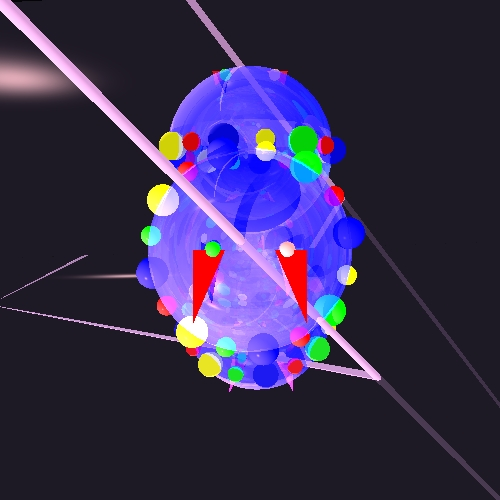
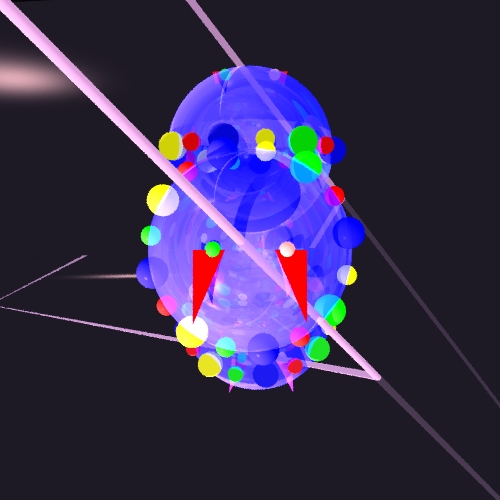
finished jitter superSampling

diff --git a/src/unittests/elements/ReflectionRefractionTests.java b/src/unittests/elements/ReflectionRefractionTests.java
@@ -55,6 +55,31 @@ public class ReflectionRefractionTests {
         render.writeToImage();
     }
 
+    /**
+     * Produce a picture of a sphere lighted by a spot light
+     */
+    @Test
+    public void twoSpheresAdvanaced() {
+        Scene scene = new Scene("Test scene");
+        scene.setCamera(new Camera(new Point3D(0, 0, -1000), new Vector(0, 0, 1), new Vector(0, -1, 0)));
+        scene.setDistance(1000);
+        scene.setBackground(Color.BLACK);
+        scene.setAmbientLight(new AmbientLight(Color.BLACK, 0));
+
+        scene.addGeometries(
+                new Sphere(new Color(java.awt.Color.BLUE), new Material(0.4, 0.3, 100, 0.3, 0), 50,
+                        new Point3D(0, 0, 50)),
+                new Sphere(new Color(java.awt.Color.RED), new Material(0.5, 0.5, 100), 25, new Point3D(0, 0, 50)));
+
+        scene.addLights(new SpotLight(new Color(1000, 600, 0), new Point3D(-100, 100, -500), new Vector(-1, 1, 2), 1,
+                0.0004, 0.0000006));
+
+        ImageWriter imageWriter = new ImageWriter("twoSpheres advanced", 150, 150, 500, 500);
+        Render render = new Render(imageWriter, scene);
+
+        render.renderImageAdvanced();
+        render.writeToImage();
+    }
 
     /**
      * Produce a picture of a sphere lighted by a spot light
@@ -101,6 +126,54 @@ public class ReflectionRefractionTests {
         render.renderImage();
         render.writeToImage();
     }
+
+    /**
+     * Produce an advance picture of a sphere lighted by a spot light
+     */
+    @Test
+    public void twoSpheresOnMirrorsAdvanced() {
+        Scene scene = new Scene("Test scene");
+        scene.setCamera(new Camera(
+                new Point3D(0, 0, -10000),
+                new Vector(0, 0, 1),
+                new Vector(0, -1, 0)));
+        scene.setDistance(10000);
+        scene.setBackground(Color.BLACK);
+        scene.setAmbientLight(new AmbientLight(new Color(255, 255, 255), 0.1));
+
+        scene.addGeometries(
+                new Sphere(
+                        new Color(0, 0, 100),
+                        new Material(0.25, 0.25, 20, 0.5, 0), 400,
+                        new Point3D(-950, 900, 1000)),
+                new Sphere(
+                        new Color(100, 20, 20),
+                        new Material(0.25, 0.25, 20), 200,
+                        new Point3D(-950, 900, 1000)),
+                new Triangle(
+                        new Color(20, 20, 20),
+                        new Material(0, 0, 0, 0, 1),
+                        new Point3D(1500, 1500, 1500),
+                        new Point3D(-1500, -1500, 1500),
+                        new Point3D(670, -670, -3000)),
+                new Triangle(
+                        new Color(20, 20, 20),
+                        new Material(0, 0, 0, 0, 0.5),
+                        new Point3D(1500, 1500, 1500),
+                        new Point3D(-1500, -1500, 1500),
+                        new Point3D(-1500, 1500, 2000)));
+
+        scene.addLights(new SpotLight(new Color(1020, 400, 400), new Point3D(-750, 750, 150),
+                new Vector(-1, 1, 4), 1, 0.00001, 0.000005));
+
+        ImageWriter imageWriter = new ImageWriter("twoSpheresMirroredAdvanced", 2500, 2500, 500, 500);
+        Render render = new Render(imageWriter, scene);
+
+        render.renderImageAdvanced();
+        render.writeToImage();
+    }
+
+
 
     /**
      * Produce a picture of a two triangles lighted by a spot light with a partially transparent Sphere
@@ -297,7 +370,7 @@ public class ReflectionRefractionTests {
 
         scene.addLights(new DirectionalLight(new Color(255, 191, 191), new Vector(1, -1, 1)));
 
-        ImageWriter imageWriter = new ImageWriter("coronaSphere", 200, 200, 1600, 1600);
+        ImageWriter imageWriter = new ImageWriter("coronaSphere", 200, 200, 500, 500);
         Render render = new Render(imageWriter, scene);
 
         render.renderImage();
@@ -469,10 +542,10 @@ public class ReflectionRefractionTests {
 
         scene.addLights(new DirectionalLight(new Color(255, 191, 191), new Vector(1, -1, 1)));
 
-        ImageWriter imageWriter = new ImageWriter("coronaSphereAdvanced", 200, 200, 1600, 1600);
+        ImageWriter imageWriter = new ImageWriter("coronaSphereAdvanced", 200, 200, 500, 500);
         Render render = new Render(imageWriter, scene);
 
-        render.renderImage();
+        render.renderImageAdvanced();
         render.writeToImage();
     }
 }
